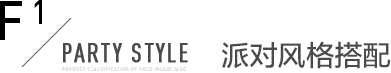
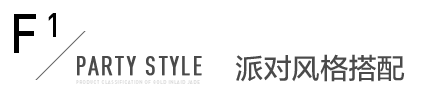
replace image resources

Changed region(s): [[0.0, 0.0, 0.491, 0.9315], [0.5217, 0.5479, 1.0, 0.9589], [0.1535, 0.9041, 0.491, 0.9863]]

diff --git a/public/index.html b/public/index.html
@@ -16,18 +16,15 @@
     <title>Uniquers</title>
     <link href="favicon.ico" rel="shortcut icon" type="image/x-icon" />
     <link rel="apple-touch-icon" href="./images/icon-114.jpg" />
-    <link rel="stylesheet" href="/dist/min-4fb1825aa3.css">
+    <link rel="stylesheet" href="/dist/min-2b4d2d705e.css">
 </head>
 
 <body ng-app="uniquers.app">
 
-    <!--<header ng-include="'/views/nav-top.html'"></header>-->
     <div class="uq-view">
         <div class="ngView {{noAnimateClass}}"></div>
     </div>
-
-    <!--<footer ng-include="'/views/nav-bottom.html'"></footer>-->
-
+    
     <script src="/dist/min-ce77881e8b.js"></script>l
 </body>
 

diff --git a/public/styles/page-home.scss b/public/styles/page-home.scss
@@ -27,13 +27,6 @@
     margin: 3em 0;
 }
 
-.page-home-u1-title-text,
-.page-home-u2-title-text,
-.page-home-u3-title-text,
-.page-home-u4-title-text,
-.page-home-f1-title-text {
-    height: 2.5em;
-}
 
 .page-home-u1-title-splitter {
     width: 100%;
@@ -152,4 +145,18 @@
 .navbar-nav>li>a {
     padding: 0;
     text-align: center;
+}
+
+
+
+/* iphone (portrait and landscape) ----------- */
+
+@media only screen and (max-width: 767px) {
+    .page-home-u1-title-text,
+    .page-home-u2-title-text,
+    .page-home-u3-title-text,
+    .page-home-u4-title-text,
+    .page-home-f1-title-text {
+        height: 2.5em;
+    }
 }

diff --git a/public/views/welcome.html b/public/views/welcome.html
@@ -5,13 +5,3 @@
         <a class="face-right" href="javascript:void(0)" ng-click="gotoHome()"><img src="/images/face01.jpg" alt=""></a>
     </div>
 </div>
-
-<!--<a ng-click="gotoLogin()" style="
-    position: absolute;
-    left: 50%;
-    top: 50%;
-    cursor:pointer;
-    transform:translate(-50%,-50%);
-    z-index:3000">
-    <img src="/images/Connect_logo_5.png" alt="LoginQQ">
-</a>-->

diff --git a/public/views/match.html b/public/views/match.html
@@ -7,4 +7,4 @@
 </div>
 <div ng-include="'/views/footer.html'"></div>
 <!--bottom nav bar-->
-<footer ng-include="'/views/nav-bottom.html'"></footer>
+<!--<footer ng-include="'/views/nav-bottom.html'"></footer>-->

diff --git a/public/views/ol.html b/public/views/ol.html
@@ -21,4 +21,4 @@
 <div ng-include="'/views/footer.html'"></div>
 
 <!--bottom nav bar-->
-<footer ng-include="'/views/nav-bottom.html'"></footer>
+<!--<footer ng-include="'/views/nav-bottom.html'"></footer>-->

diff --git a/public/views/party.html b/public/views/party.html
@@ -21,4 +21,4 @@
 <div ng-include="'/views/footer.html'"></div>
 
 <!--bottom nav bar-->
-<footer ng-include="'/views/nav-bottom.html'"></footer>
+<!--<footer ng-include="'/views/nav-bottom.html'"></footer>-->

diff --git a/public/views/thenew.html b/public/views/thenew.html
@@ -10,4 +10,4 @@
 <div ng-include="'/views/footer.html'"></div>
 
 <!--bottom nav bar-->
-<footer ng-include="'/views/nav-bottom.html'"></footer>
+<!--<footer ng-include="'/views/nav-bottom.html'"></footer>-->

diff --git a/public/views/vacation.html b/public/views/vacation.html
@@ -21,4 +21,4 @@
 <div ng-include="'/views/footer.html'"></div>
 
 <!--bottom nav bar-->
-<footer ng-include="'/views/nav-bottom.html'"></footer>
+<!--<footer ng-include="'/views/nav-bottom.html'"></footer>-->

diff --git a/public/views/kind.html b/public/views/kind.html
@@ -9,4 +9,4 @@
 <div ng-include="'/views/footer.html'"></div>
 
 <!--bottom nav bar-->
-<footer ng-include="'/views/nav-bottom.html'"></footer>
+<!--<footer ng-include="'/views/nav-bottom.html'"></footer>-->

diff --git a/public/views/home.html b/public/views/home.html
@@ -237,4 +237,4 @@
 </div>
 
 <div ng-include="'/views/footer.html'"></div>
-<footer ng-include="'/views/nav-bottom.html'"></footer>
+<!--<footer ng-include="'/views/nav-bottom.html'"></footer>-->

diff --git a/public/views/about.html b/public/views/about.html
@@ -13,4 +13,4 @@
 </div>
 
 <!--bottom nav bar-->
-<footer ng-include="'/views/nav-bottom.html'"></footer>
+<!--<footer ng-include="'/views/nav-bottom.html'"></footer>-->

diff --git a/public/views/designer.html b/public/views/designer.html
@@ -104,4 +104,4 @@
 
 
 <!--bottom nav bar-->
-<footer ng-include="'/views/nav-bottom.html'"></footer>
+<!--<footer ng-include="'/views/nav-bottom.html'"></footer>-->
